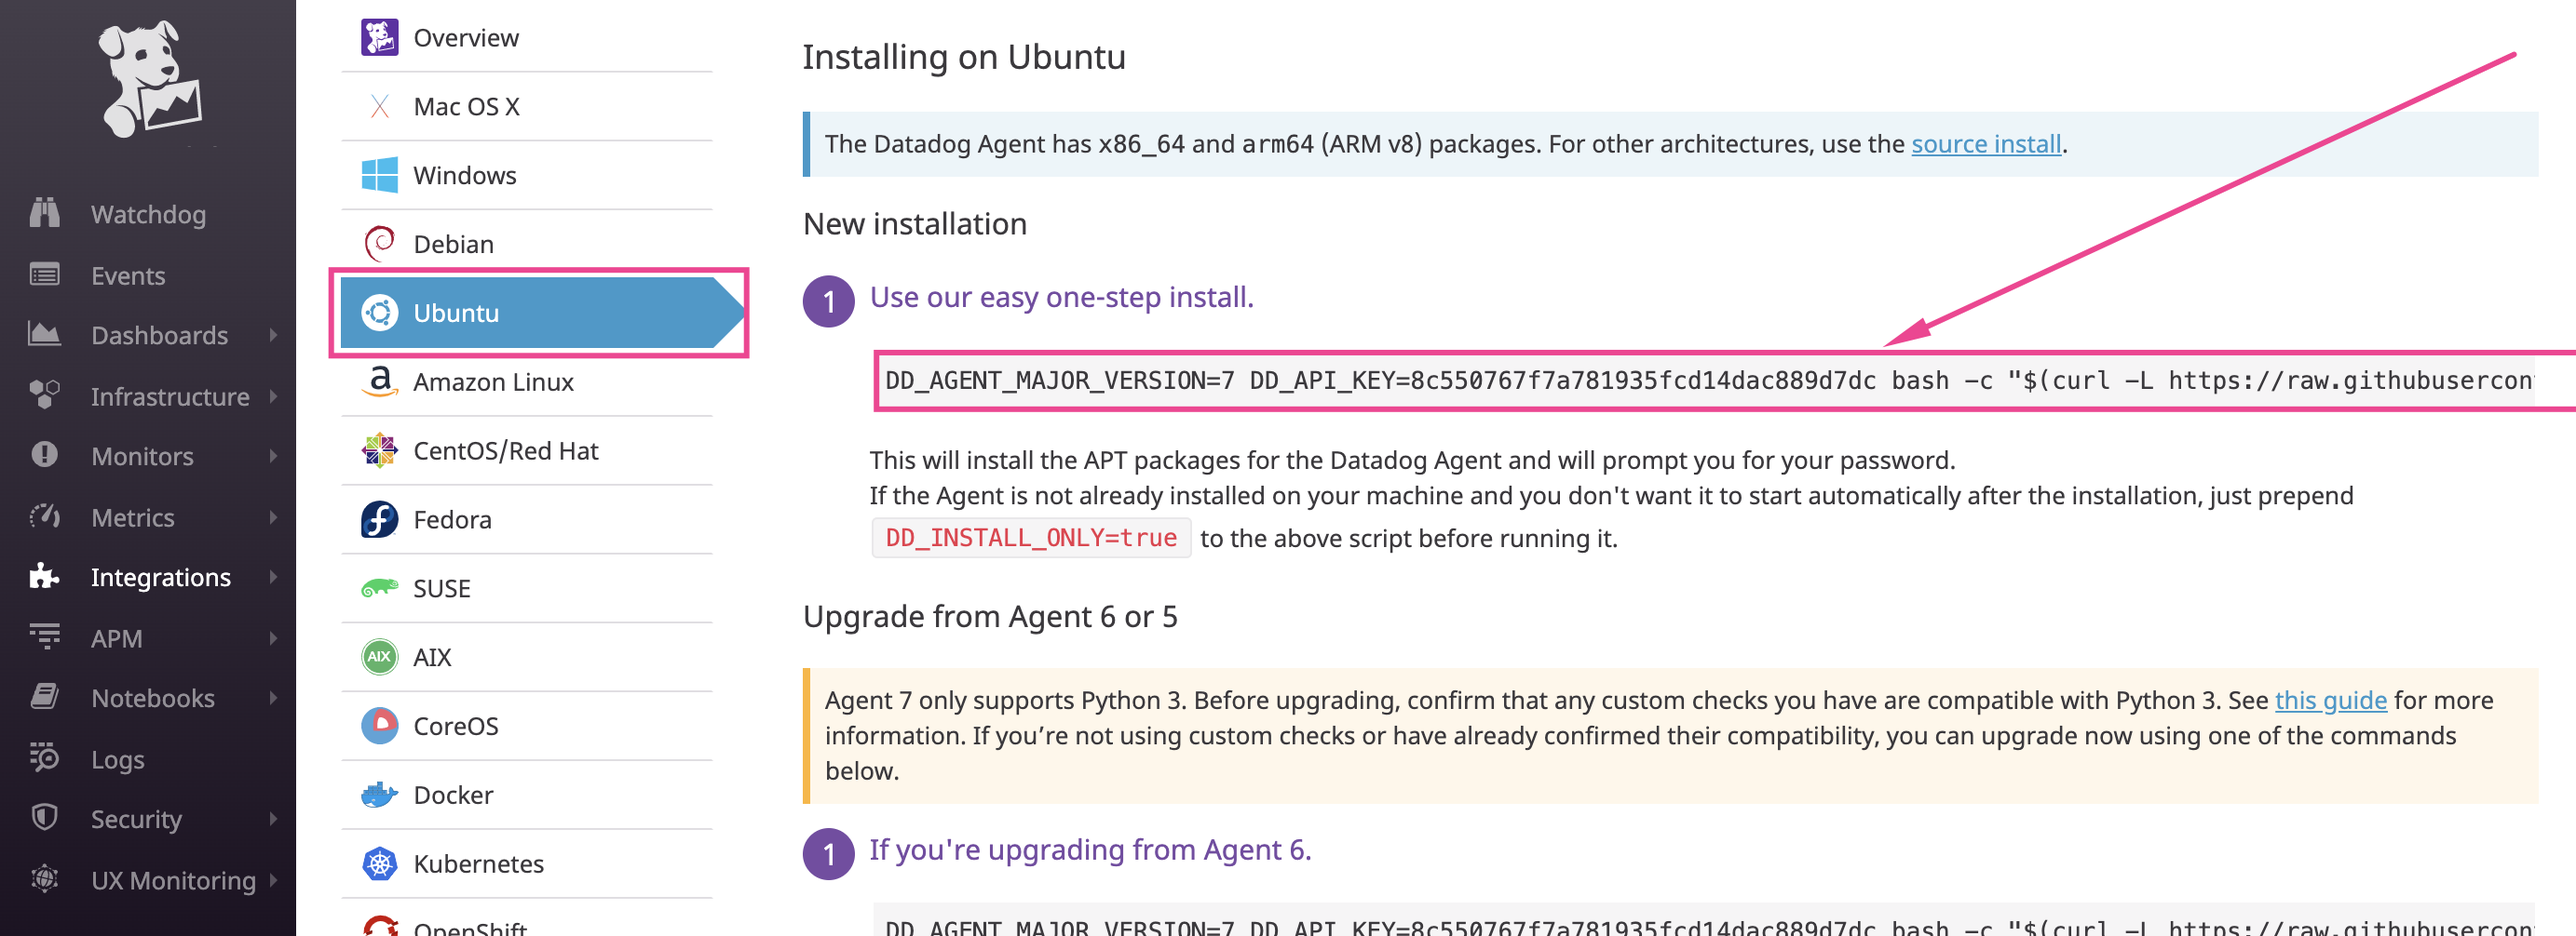
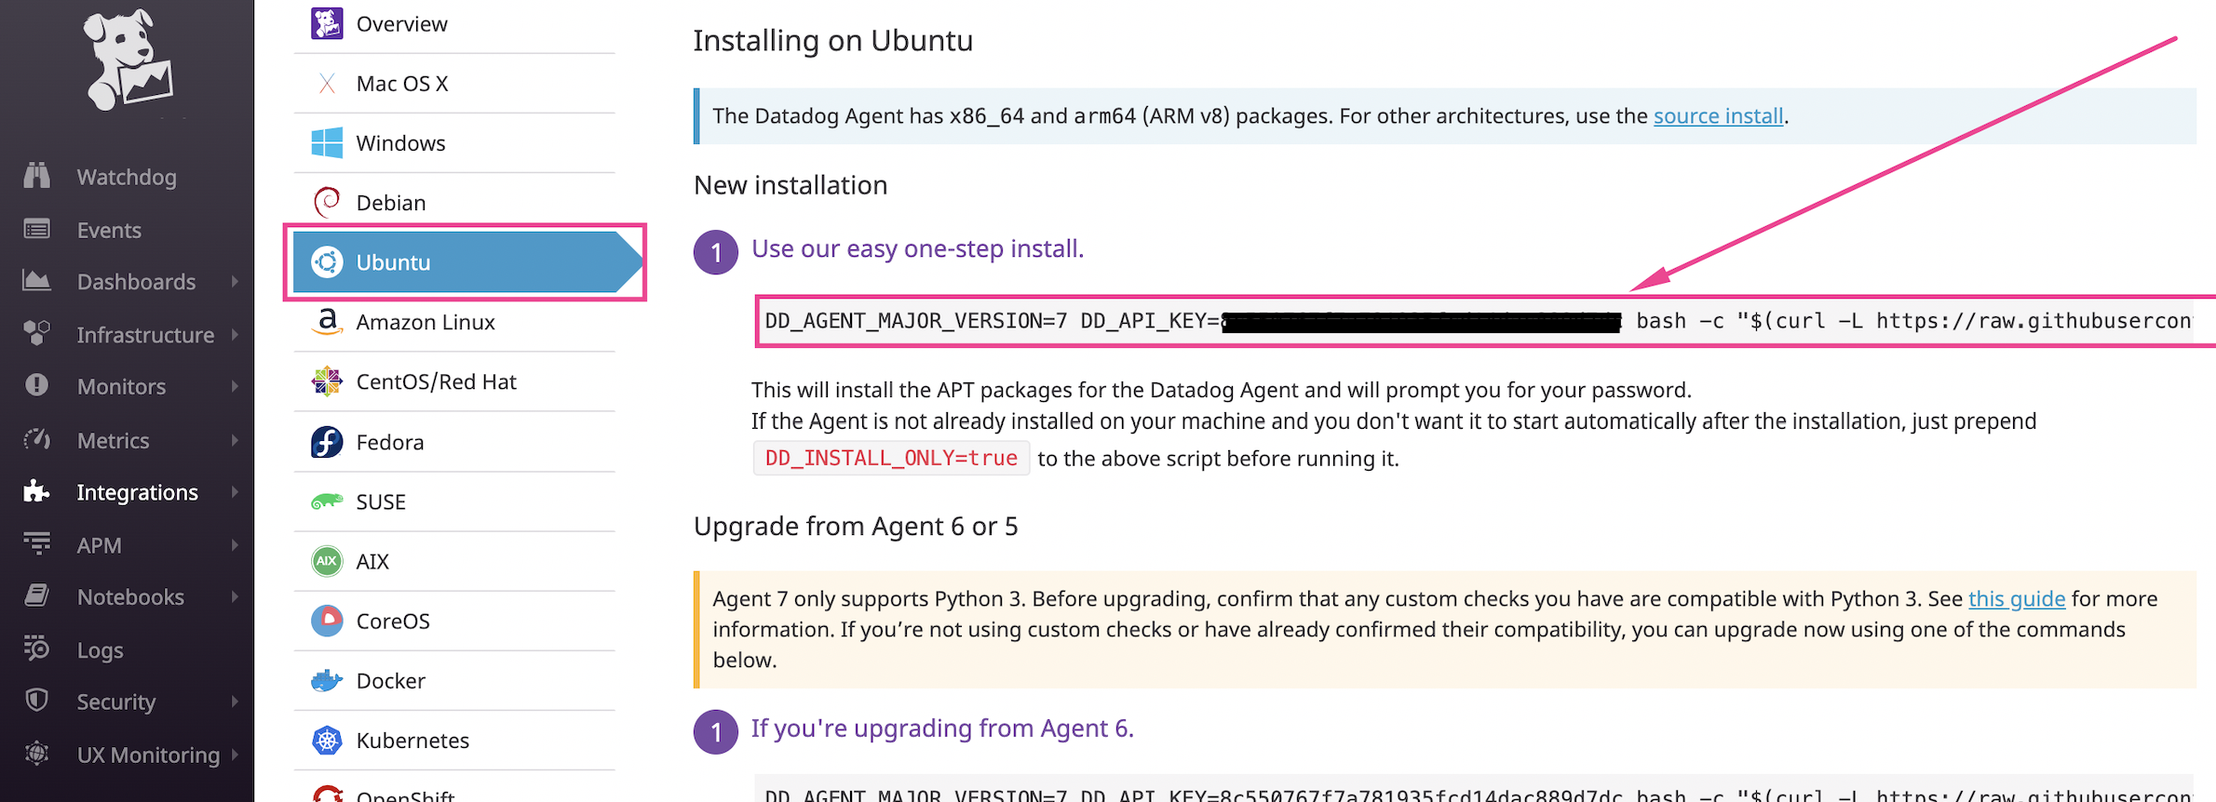
Redacted API keys

diff --git a/answers.md b/answers.md
@@ -58,7 +58,7 @@ I will also add "developer" notes that should be considered outside of the custo
 1. One line install: 
 
 	```
-	$ DD_AGENT_MAJOR_VERSION=7 DD_API_KEY=8c550767f7a781935fcd14dac889d7dc bash -c "$(curl -L https://raw.githubusercontent.com/DataDog/datadog-agent/master/cmd/agent/install_script.sh)"
+	$ DD_AGENT_MAJOR_VERSION=7 DD_API_KEY=XXXXXXXXXXXXXXXXXXXXXXXXXXXXXXXX bash -c "$(curl -L https://raw.githubusercontent.com/DataDog/datadog-agent/master/cmd/agent/install_script.sh)"
 	```
 
 	The portal will provide a command that will incorporate the right API key. 
@@ -351,8 +351,8 @@ The interval is set in the configuration file and not in the python script.
 	from datadog import initialize, api
 
 	options = {
-	    'api_key': '8c550767f7a781935fcd14dac889d7dc',
-	    'app_key': '6dcf98bed5d32a0b6bddb30ddb1108e75a22d4e7'
+	    'api_key': 'XXXXXXXXXXXXXXXXXXXXXXXXXXXXXXXX',
+	    'app_key': 'YYYYYYYYYYYYYYYYYYYYYYYYYYYYYYYYYYYYYYYY'
 	}
 
 	initialize(**options)
